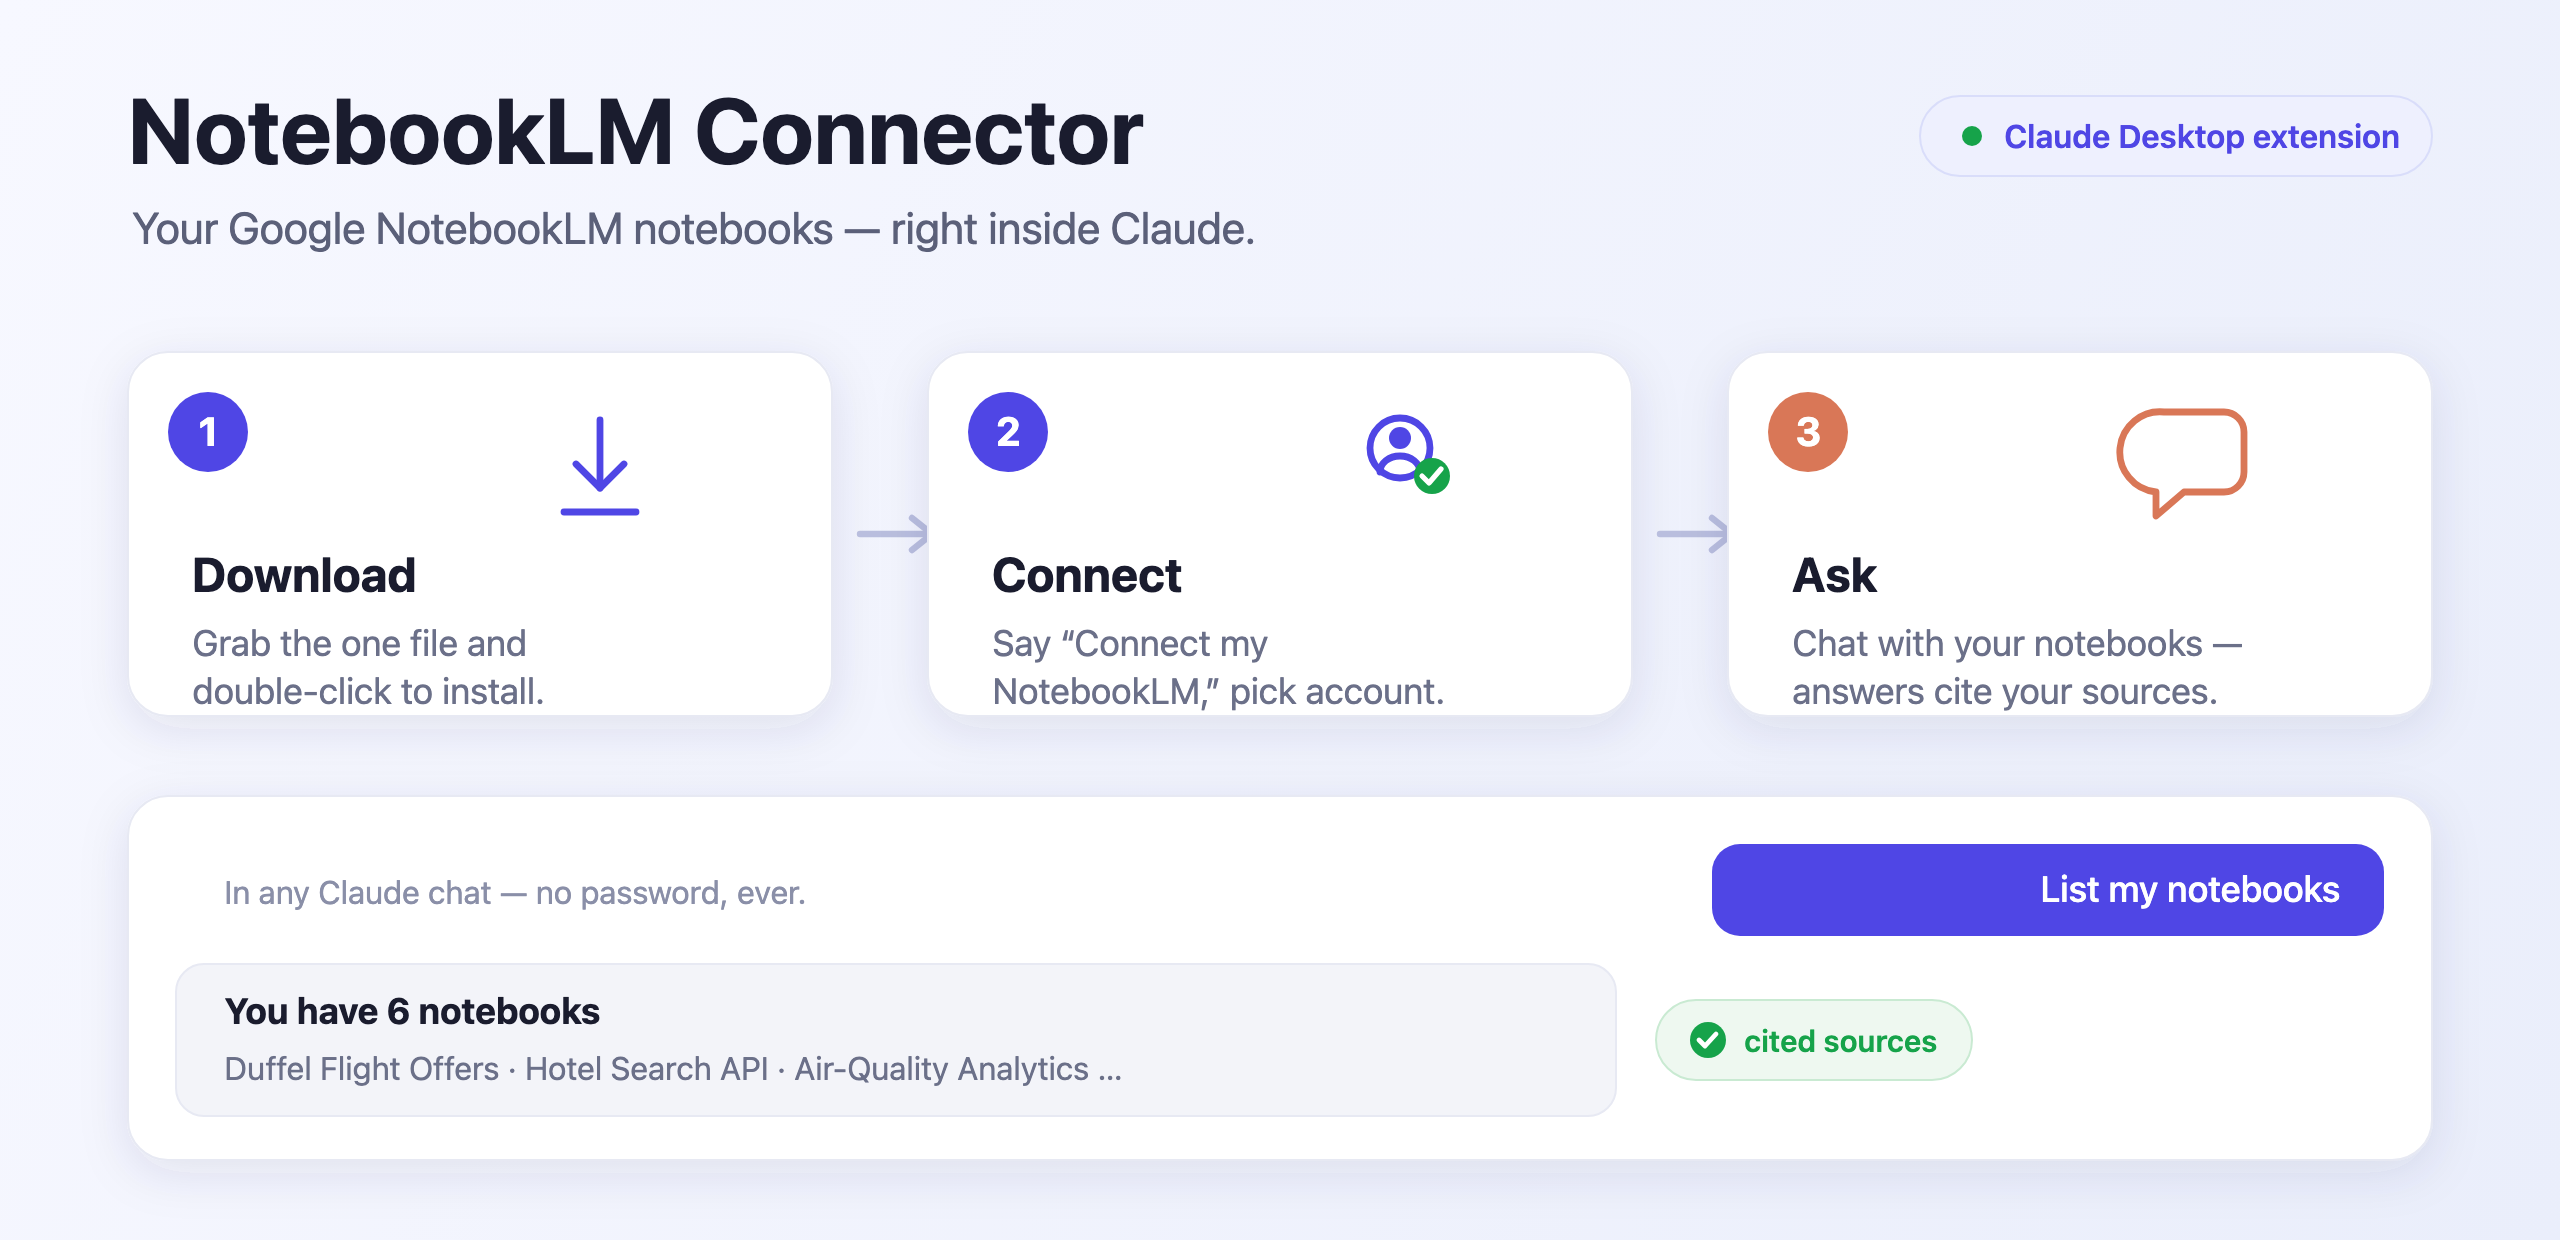
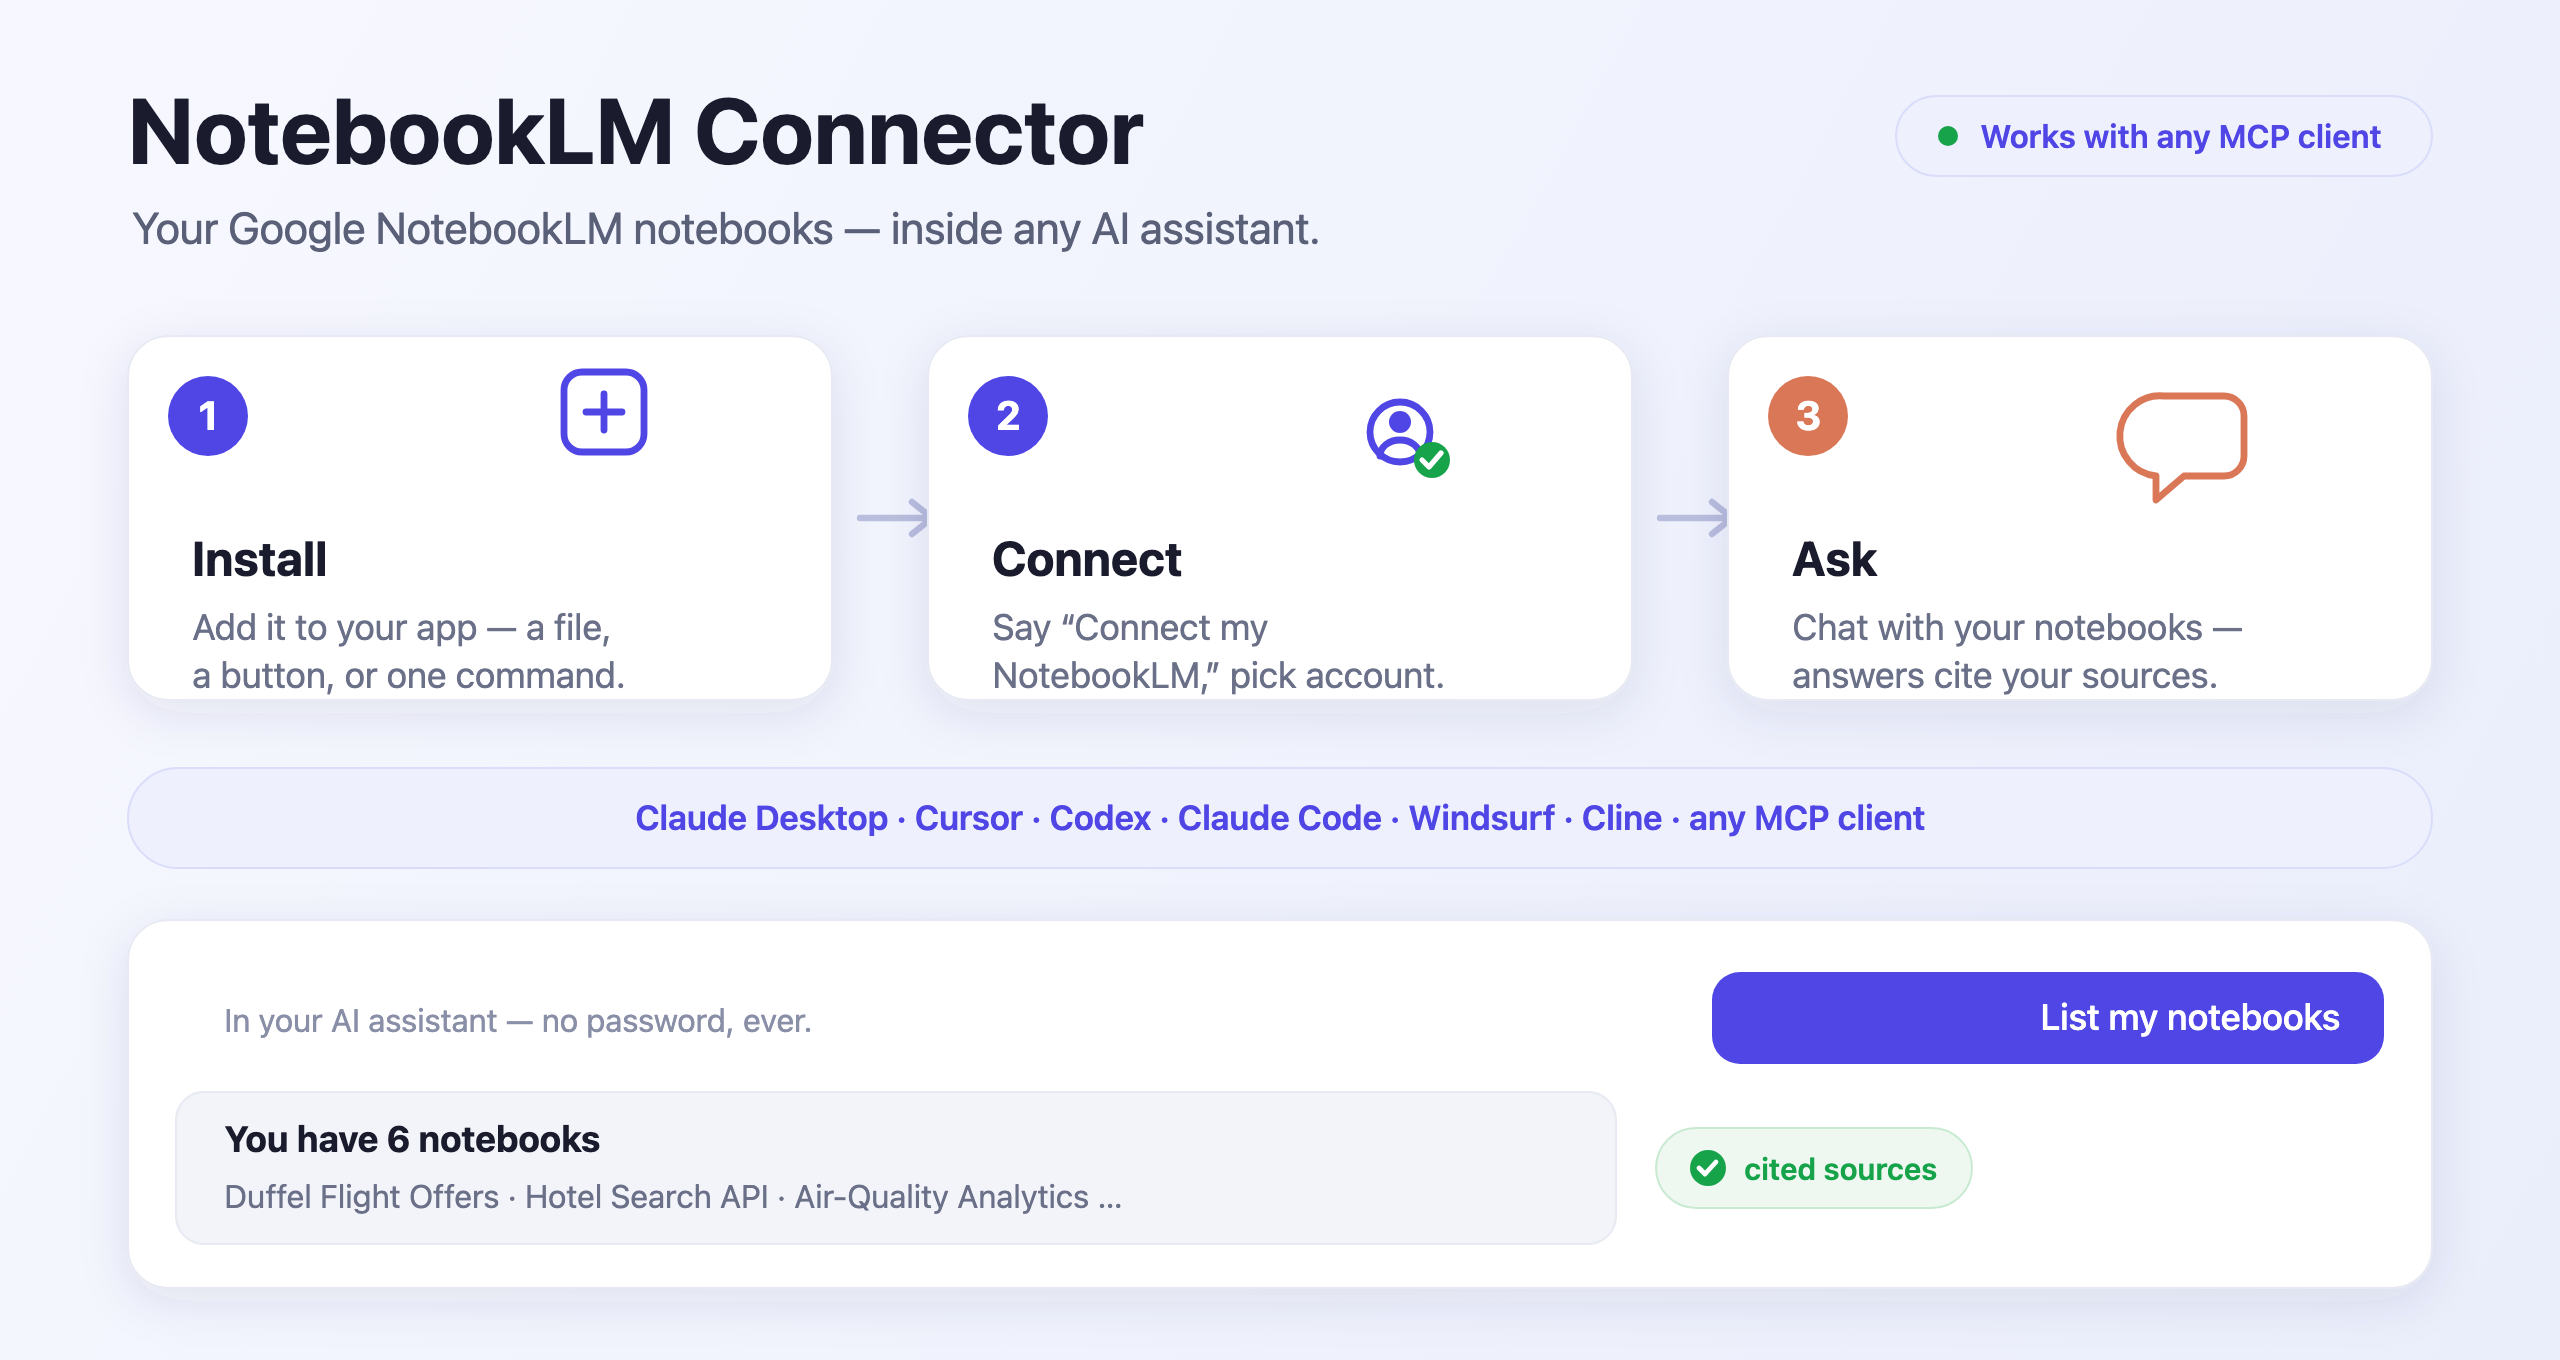
Reposition as client-agnostic: any MCP client, not just Claude
Generic hero + unified install section (Claude Desktop, Cursor, Codex,
Claude Code, any MCP client). Claude Desktop is presented as the easiest
on-ramp, not the whole product.

diff --git a/README.md b/README.md
@@ -2,64 +2,39 @@
 
 [![PyPI](https://img.shields.io/pypi/v/notebooklm-connector?color=4f46e5)](https://pypi.org/project/notebooklm-connector/) [![License: MIT](https://img.shields.io/badge/License-MIT-green.svg)](LICENSE)
 
-![NotebookLM Connector — download, connect, and ask your Google NotebookLM notebooks from inside Claude](assets/hero.png)
+![NotebookLM Connector — install, connect, and ask your Google NotebookLM notebooks from inside any AI assistant](assets/hero.png)
 
-Talk to your **Google NotebookLM** notebooks from inside **Claude**. Ask questions answered only from your own sources (with citations), add sources, and generate Audio Overviews, reports, quizzes, and more — all from a normal chat.
+Bring your **Google NotebookLM** notebooks into **any AI assistant that speaks [MCP](https://modelcontextprotocol.io)** — Claude, Cursor, Codex, Windsurf, Cline, and more. Ask questions answered only from your own sources (with citations), add sources, and generate Audio Overviews, reports, quizzes, and more — all from a normal chat.
 
-## ⬇ Install (Claude Desktop)
+## Install
 
-### [**Download NotebookLM-Connector.mcpb**](https://github.com/asimhafeezz/notebooklm-connector/releases/latest)
+Pick your app below. Then in a chat, say **“Connect my NotebookLM”**, choose your Google account, and you’re in — no password, ever.
 
-1. **Download** the file above.
-2. **Double-click** it → Claude Desktop opens → click **Install**.
-3. In a chat, type **“Connect my NotebookLM”** → pick your Google account when asked.
-4. Type **“List my notebooks.”** That’s it.
+> **One-time requirement:** the connector needs **Python 3.12** and **[uv](https://docs.astral.sh/uv/)** on the machine.
+> Mac: `brew install python@3.12 uv` · Windows: [python.org](https://www.python.org/downloads/) + [uv install](https://docs.astral.sh/uv/getting-started/installation/).
+> *(Claude Desktop’s `.mcpb` only needs Python — its runtime provides the rest.)*
 
-> **Needs Python 3.12** on your computer first.
-> Mac: `brew install python@3.12` · Windows: [python.org](https://www.python.org/downloads/). Nothing else to set up.
->
-> No password is ever typed — the connector uses the Google account you’re already signed into in your browser. On Mac, click **Allow** on the one-time Keychain popup.
+### Claude Desktop — download & double-click
 
-## What you can ask Claude to do
+**[⬇ Download NotebookLM-Connector.mcpb](https://github.com/asimhafeezz/notebooklm-connector/releases/latest)** → double-click it → **Install**. Done.
 
-- *“Ask my Thesis notebook: what counterarguments do the sources discuss?”*
-- *“Create a notebook called ‘Competitor research’ and add these three URLs as sources.”*
-- *“Make an audio overview of my Onboarding notebook about deployment, then save it to my Desktop.”*
-- *“Give me a quiz from my Biology notebook.”*
-
-Under the hood that’s **13 tools**: connect/login, list & create notebooks, add sources (URLs, YouTube, text, files), ask questions with citations, and generate + download Studio content (audio, video, reports, quizzes, flashcards, mind maps, slide decks, infographics, data tables).
-
-## Good to know
-
-- **Sessions last ~2–4 weeks.** When it stops working, just say “Connect my NotebookLM” again.
-- **Free NotebookLM accounts** allow about 50 questions per day.
-- **It’s your own account** — use it as you normally would.
-- **Unofficial** — this uses NotebookLM’s internal API (Google has no public one). It’s reliable but can break if Google changes things; updating fixes it.
-
----
-
-## Add it to other apps
-
-Every app below uses the same one command — **`uvx notebooklm-connector`** — which pulls the connector [from PyPI](https://pypi.org/project/notebooklm-connector/). Nothing to clone.
-*(The machine needs Python 3.12 and [uv](https://docs.astral.sh/uv/) installed — one-time.)*
-
-**Cursor** — one click:
+### Cursor — one click
 
 [![Add to Cursor](https://cursor.com/deeplink/mcp-install-dark.svg)](cursor://anysphere.cursor-deeplink/mcp/install?name=notebooklm&config=eyJjb21tYW5kIjogInV2eCIsICJhcmdzIjogWyJub3RlYm9va2xtLWNvbm5lY3RvciJdfQ==)
 
-**Codex** — one line:
+### Codex — one line
 
 ```bash
 codex mcp add notebooklm -- uvx notebooklm-connector
 ```
 
-**Claude Code** — one line:
+### Claude Code — one line
 
 ```bash
 claude mcp add notebooklm -- uvx notebooklm-connector
 ```
 
-**Windsurf, Cline, or any other MCP client** — add to its MCP config:
+### Any other MCP client (Windsurf, Cline, …) — add to its MCP config
 
 ```json
 {
@@ -69,7 +44,32 @@ claude mcp add notebooklm -- uvx notebooklm-connector
 }
 ```
 
-Then in a chat: **“Connect my NotebookLM.”** Same as Claude Desktop from there.
+Every non-Claude-Desktop option runs the same command, **`uvx notebooklm-connector`**, which fetches the connector [from PyPI](https://pypi.org/project/notebooklm-connector/) — nothing to clone.
+
+## What you can ask
+
+- *“Ask my Thesis notebook: what counterarguments do the sources discuss?”*
+- *“Create a notebook called ‘Competitor research’ and add these three URLs as sources.”*
+- *“Make an audio overview of my Onboarding notebook about deployment, then save it to my Desktop.”*
+- *“Give me a quiz from my Biology notebook.”*
+
+That’s **13 tools** under the hood: connect/login, list & create notebooks, add sources (URLs, YouTube, text, files), ask questions with citations, and generate + download Studio content (audio, video, reports, quizzes, flashcards, mind maps, slide decks, infographics, data tables).
+
+## Good to know
+
+- **No password, ever** — the connector reuses the Google account you’re already signed into in your browser. On Mac, approve the one-time Keychain popup.
+- **Sessions last ~2–4 weeks.** When it stops working, just say “Connect my NotebookLM” again.
+- **Free NotebookLM accounts** allow about 50 questions per day.
+- **It’s your own account** — use it as you normally would.
+- **Unofficial** — this uses NotebookLM’s internal API (Google has no public one). It’s reliable but can break if Google changes things; updating usually fixes it.
+
+## How it works
+
+```
+Your AI assistant ──MCP──► notebooklm-connector ──► notebooklm-py ──► NotebookLM’s internal API
+```
+
+Auth is your browser’s existing Google session, read locally on your machine. Nothing is sent anywhere except to NotebookLM itself. It runs entirely on your computer.
 
 ## For developers
 
@@ -77,9 +77,9 @@ Then in a chat: **“Connect my NotebookLM.”** Same as Claude Desktop from the
 uv sync                                                            # install
 uv run notebooklm-connector                                        # run the server
 npx @modelcontextprotocol/inspector uv run notebooklm-connector    # test tools interactively
-npx @anthropic-ai/mcpb pack . dist/NotebookLM-Connector.mcpb       # rebuild the installer
+npx @anthropic-ai/mcpb pack . dist/NotebookLM-Connector.mcpb       # rebuild the .mcpb installer
 ```
 
-**How it works:** Claude ↔ this MCP server ↔ [notebooklm-py](https://github.com/teng-lin/notebooklm-py) ↔ NotebookLM’s internal API. Auth is your browser’s existing Google session, read locally; nothing is sent anywhere except to NotebookLM. Multiple Google accounts: `uv run notebooklm login --profile work`, then set `NOTEBOOKLM_PROFILE=work` in the server’s env.
+Wraps [notebooklm-py](https://github.com/teng-lin/notebooklm-py). Multiple Google accounts: `uv run notebooklm login --profile work`, then set `NOTEBOOKLM_PROFILE=work` in the server’s env.
 
 MIT licensed.
